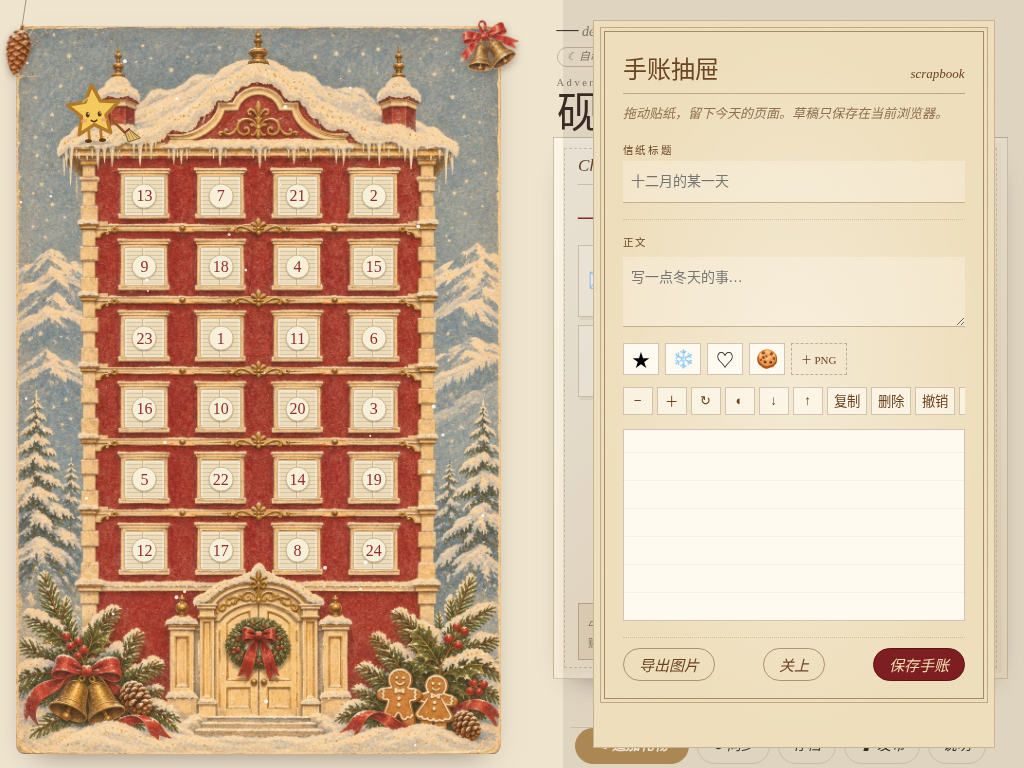
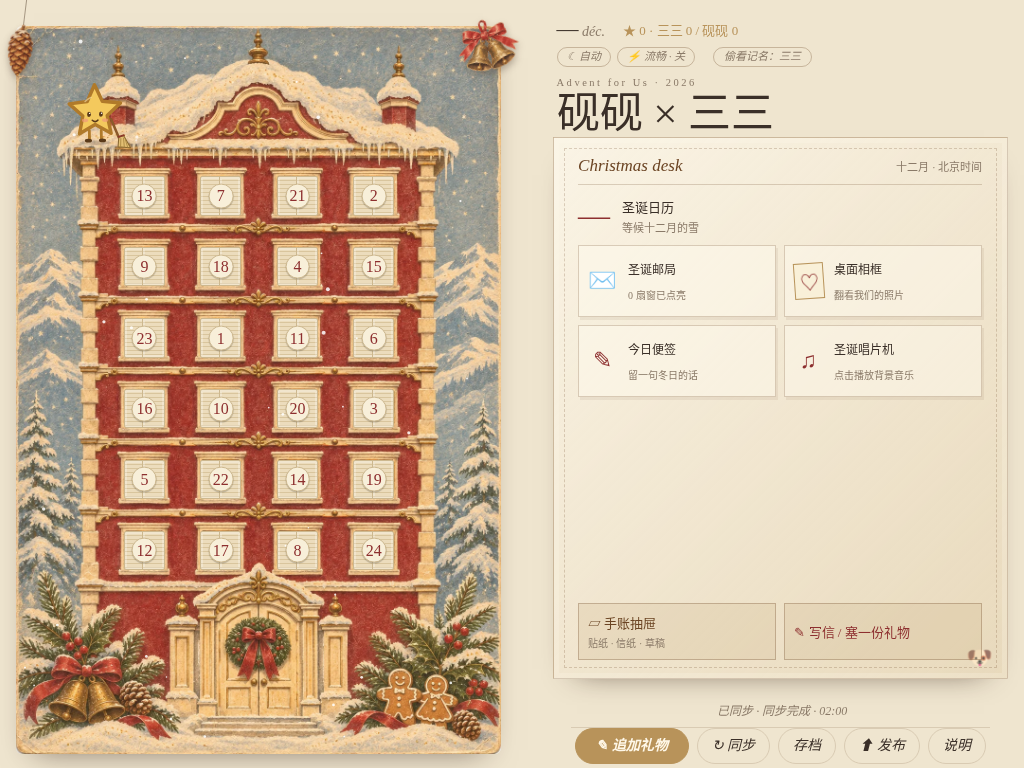
feat: finish interactive desk and sealed accordion flow

diff --git a/app.js b/app.js
@@ -322,7 +322,8 @@ function showGiftCard(day, gifts, remoteExtras, sannanExtras, rect, doneFn, over
   if (giftSections.length > 1) {
     const folder = document.createElement('div'); folder.className = 'adv-accordion-folder';
     const tabs = document.createElement('div'); tabs.className = 'adv-accordion-tabs';
-    const select = i => giftSections.forEach((s,j)=>{s.el.classList.toggle('pulled',i===j); s.el.hidden=i!==j; tabs.children[j]?.classList.toggle('on',i===j);});
+    giftSections.forEach(s=>{const seal=document.createElement('button');seal.type='button';seal.className='adv-envelope-seal';seal.innerHTML='<span>✦</span><b>轻触拆开火漆</b>';seal.onclick=()=>{s.el.classList.remove('sealed');s.el.classList.add('opened');};s.el.prepend(seal);s.el.classList.add('sealed');});
+    const select = i => giftSections.forEach((s,j)=>{s.el.classList.toggle('pulled',i===j);s.el.hidden=i!==j;tabs.children[j]?.classList.toggle('on',i===j);if(i===j&&!s.el.classList.contains('opened'))s.el.classList.add('sealed');});
     giftSections.forEach((s,i)=>{const b=document.createElement('button');b.type='button';b.className='adv-accordion-tab';b.title=s.title;b.textContent=(s.fresh?'★ ':'')+(s.title.length>12?s.title.slice(0,12)+'…':s.title);b.onclick=()=>select(i);tabs.appendChild(b);});
     folder.appendChild(tabs); body.prepend(folder); select(0);
   }
@@ -514,6 +515,10 @@ function renderItem(container, item, day, role, existingAnswer, giftId = '') {
     return;
   }
 
+  if (item.type === 'scrapbook' && item.layout) {
+    const page=document.createElement('div');page.className='adv-scrap-read';const h=document.createElement('h3');h.textContent=item.layout.title||'冬日手账';const p=document.createElement('p');p.textContent=item.layout.text||'';page.append(h,p);for(const s of item.layout.stickers||[]){if(s.src)continue;const mark=document.createElement('span');mark.textContent=s.char;mark.style.left=s.x+'%';mark.style.top=s.y+'%';mark.style.opacity=s.opacity??1;mark.style.transform=`translate(-50%,-50%) scale(${s.scale||1}) rotate(${s.rotate||0}deg)`;page.appendChild(mark);}container.appendChild(page);return;
+  }
+
   if ((item.type === 'voice' || item.type === 'audio') && item.url) {
     (async () => {
       const src = await Backend.resolveMediaUrl(item.url);
@@ -594,7 +599,7 @@ function renderRemoteEntry(container, entry, label, day) {
   const source = Array.isArray(entry.items_v2) && entry.items_v2.length
     ? entry.items_v2
     : (Array.isArray(entry.items) && entry.items.length ? entry.items : legacyEntryItems(entry));
-  const items = source.filter(item => item && ['text', 'question', 'song', 'abc', 'image', 'photo', 'comic', 'voice', 'audio', 'attachment'].includes(item.type));
+  const items = source.filter(item => item && ['text', 'question', 'song', 'abc', 'image', 'photo', 'comic', 'scrapbook', 'voice', 'audio', 'attachment'].includes(item.type));
   if (!items.length) return null;
   const half = document.createElement('div');
   half.className = 'adv-half';
@@ -615,11 +620,48 @@ function appendMemoryActions(container, id, day) {
   const key = `advent-v4-favorite:${id}`;
   const row = document.createElement('div'); row.className = 'adv-memory-actions';
   const fav = document.createElement('button'); fav.className = 'adv-btn';
-  const sync = () => { fav.textContent = localStorage.getItem(key) === '1' ? '★ 已收藏' : '☆ 收藏'; };
-  fav.onclick = () => { localStorage.getItem(key) === '1' ? localStorage.removeItem(key) : localStorage.setItem(key, '1'); sync(); };
+  const sync = () => { fav.textContent = localStorage.getItem(key) ? '★ 已收藏' : '☆ 收藏'; };
+  fav.onclick = () => { localStorage.getItem(key) ? localStorage.removeItem(key) : localStorage.setItem(key, JSON.stringify({id,day,saved_at:Date.now()})); sync(); };
   const reply = document.createElement('button'); reply.className = 'adv-btn'; reply.textContent = '↩ 写回信';
   reply.onclick = () => openReplyComposer(id, day);
   row.append(fav, reply); sync(); container.appendChild(row);
+}
+
+function openDeskSheet(title, subtitle='Christmas desk') {
+  const overlay=document.getElementById('overlay');overlay.innerHTML='';overlay.style.display='flex';overlay.classList.add('on');
+  const sheet=document.createElement('div');sheet.className='adv-sheet adv-paper';const frame=document.createElement('div');frame.className='adv-frame';
+  frame.innerHTML=`<div class="adv-ctop"><span class="d"></span><span class="by"></span></div>`;frame.querySelector('.d').textContent=title;frame.querySelector('.by').textContent=subtitle;
+  const body=document.createElement('div');body.className='adv-body adv-desk-sheet-body';const row=document.createElement('div');row.className='adv-row';const close=document.createElement('button');close.className='adv-btn';close.textContent='关上';close.onclick=closeMainOverlay;row.appendChild(close);frame.append(body,row);sheet.appendChild(frame);overlay.appendChild(sheet);overlay.onclick=e=>{if(e.target===overlay)closeMainOverlay();};return {body,row};
+}
+
+function openTodayNote() {
+  const {body,row}=openDeskSheet('今日便签','petit mot');const key=`advent-v4-note:${Backend.getWho()}:${new Date().toISOString().slice(0,10)}`;
+  const ta=document.createElement('textarea');ta.className='adv-ta adv-today-note';ta.maxLength=280;ta.placeholder='留一句简短的冬日留言…';ta.value=localStorage.getItem(key)||'';
+  const save=document.createElement('button');save.className='adv-btn solid';save.textContent='贴到桌上';save.onclick=()=>{localStorage.setItem(key,ta.value);toast('今日便签已贴好');closeMainOverlay();};body.appendChild(ta);row.appendChild(save);
+}
+
+function openPhotoFrame() {
+  const {body,row}=openDeskSheet('桌面相框','photo frame');const key=`advent-v4-frame:${Backend.getWho()}`;let data={};try{data=JSON.parse(localStorage.getItem(key)||'{}');}catch{}
+  const card=document.createElement('div');card.className='adv-frame-photo-card';const front=document.createElement('div');front.className='adv-frame-photo-front';const img=document.createElement('img');img.alt='桌面相框';if(data.src)img.src=data.src;front.appendChild(img);const back=document.createElement('div');back.className='adv-frame-photo-back';back.textContent=data.note||'照片背面还没有留言';card.append(front,back);card.onclick=()=>card.classList.toggle('flipped');
+  const upload=document.createElement('input');upload.type='file';upload.accept='image/png,image/jpeg,image/webp';upload.className='adv-file';const note=document.createElement('textarea');note.className='adv-ta';note.placeholder='写在照片背面的留言';note.value=data.note||'';let src=data.src||'';upload.onchange=e=>{const f=e.target.files?.[0];if(!f||f.size>3*1024*1024)return toast('照片需小于 3MB');const rd=new FileReader();rd.onload=()=>{src=String(rd.result);img.src=src;};rd.readAsDataURL(f);};
+  const save=document.createElement('button');save.className='adv-btn solid';save.textContent='放进相框';save.onclick=()=>{try{localStorage.setItem(key,JSON.stringify({src,note:note.value.slice(0,1000)}));toast('相框已更新');closeMainOverlay();}catch{toast('照片太大，无法保存在浏览器');}};body.append(card,upload,note);row.appendChild(save);
+}
+
+function openPostOffice() {
+  const {body}=openDeskSheet('圣诞邮局','Christmas post');const b=Backend.getBoard();const list=document.createElement('div');list.className='adv-post-list';
+  const favorites=[];for(let i=0;i<localStorage.length;i++){const k=localStorage.key(i);if(k?.startsWith('advent-v4-favorite:')){let v={id:k.slice(19)};try{v=JSON.parse(localStorage.getItem(k))||v;}catch{}favorites.push(v);}}
+  const opened=(b.cells||[]).filter(c=>Object.keys(c.opened_by||{}).length);const newCount=(b.cells||[]).reduce((n,c)=>n+(c.new_count||0),0);
+  list.innerHTML=`<div class="adv-post-summary"><b>${newCount}</b><span>新礼物与追加</span><b>${opened.length}</b><span>已开启日期</span><b>${favorites.length}</b><span>收藏</span></div>`;
+  opened.forEach(c=>{const item=document.createElement('button');item.type='button';item.className='adv-post-item';item.innerHTML=`<span>${c.day} déc.</span><small>${c.new_count?`${c.new_count} 件未读追加`:'窗户已经点亮'}</small>`;item.onclick=()=>{closeMainOverlay();onWindowTap(c.day);};list.appendChild(item);});
+  if(favorites.length){const h=document.createElement('h3');h.textContent='收藏夹';list.appendChild(h);favorites.forEach(f=>{const p=document.createElement('p');p.className='adv-favorite-line';p.textContent=`★ ${f.day?`12月${f.day}日 · `:''}${f.id||'礼物'}`;list.appendChild(p);});}body.appendChild(list);
+}
+
+function openRecordPlayer() {
+  const {body}=openDeskSheet('圣诞唱片机','music for us');const player=document.getElementById('deskAudio');
+  const controls=document.createElement('div');controls.className='adv-record-player';controls.innerHTML='<div class="adv-record-disc">♫</div><button class="adv-btn" type="button">播放 / 暂停</button><label>音量 <input type="range" min="0" max="1" step="0.05"></label><div class="adv-record-list"></div>';
+  const play=controls.querySelector('button'),volume=controls.querySelector('input'),list=controls.querySelector('.adv-record-list');volume.value=player.volume;play.onclick=()=>player.src?(player.paused?player.play().catch(()=>toast('请再次点击播放')):player.pause()):toast('先从下面选择一段音频');volume.oninput=()=>player.volume=+volume.value;
+  const tracks=[];for(const c of board?.cells||[]){if(!Object.keys(c.opened_by||{}).length)continue;const entries=[c.gifts?.ai,...(c.gifts?.human_entries||[])].filter(Boolean);for(const e of entries)for(const it of e.items_v2||e.items||[])if(['audio','voice'].includes(it.type)&&it.url)tracks.push({day:c.day,name:it.name||`12月${c.day}日的声音`,url:it.url});}
+  if(!tracks.length){const p=document.createElement('p');p.className='adv-hint';p.textContent='已开启的礼物里还没有可直接播放的音频。Spotify/网易云仍从礼物中的播放器打开。';list.appendChild(p);}tracks.forEach(t=>{const b=document.createElement('button');b.type='button';b.className='adv-post-item';b.textContent=t.name;b.onclick=async()=>{const src=await Backend.resolveMediaUrl(t.url);if(src){player.src=src;player.play().catch(()=>toast('Safari 需要再次点击播放'));controls.querySelector('.adv-record-disc').classList.add('playing');}};list.appendChild(b);});body.appendChild(controls);
 }
 
 function openReplyComposer(id, day) {
@@ -637,7 +679,7 @@ function openReplyComposer(id, day) {
 function openScrapbook() {
   const overlay = document.getElementById('overlay'); overlay.innerHTML = ''; overlay.style.display = 'flex'; overlay.classList.add('on');
   const sheet = document.createElement('div'); sheet.className = 'adv-sheet adv-paper';
-  sheet.innerHTML = '<div class="adv-frame"><div class="adv-ctop"><span class="d">手账抽屉</span><span class="by">scrapbook</span></div><p class="adv-editor-intro">拖动贴纸，留下今天的页面。草稿只保存在当前浏览器。</p><label class="adv-lab">信纸标题</label><input class="adv-in1" id="scrapTitle" placeholder="十二月的某一天"><label class="adv-lab">正文</label><textarea class="adv-ta" id="scrapText" placeholder="写一点冬天的事…"></textarea><div class="adv-sticker-tray"><button type="button" data-sticker="★">★</button><button type="button" data-sticker="❄">❄</button><button type="button" data-sticker="♡">♡</button><button type="button" data-sticker="🍪">🍪</button><label class="adv-sticker-upload">＋ PNG<input id="stickerUpload" type="file" accept="image/png,image/webp" hidden></label></div><div class="adv-sticker-tools"><button type="button" data-action="smaller">−</button><button type="button" data-action="larger">＋</button><button type="button" data-action="rotate">↻</button><button type="button" data-action="fade">◐</button><button type="button" data-action="back">↓</button><button type="button" data-action="front">↑</button><button type="button" data-action="copy">复制</button><button type="button" data-action="delete">删除</button><button type="button" data-action="undo">撤销</button><button type="button" data-action="redo">重做</button></div><div class="adv-scrap-canvas" id="scrapCanvas"></div><div class="adv-row"><button class="adv-btn" id="scrapExport">导出图片</button><button class="adv-btn" id="scrapClose">关上</button><button class="adv-btn solid" id="scrapSave">保存手账</button></div></div>';
+  sheet.innerHTML = '<div class="adv-frame"><div class="adv-ctop"><span class="d">手账抽屉</span><span class="by">scrapbook</span></div><p class="adv-editor-intro">拖动贴纸，留下今天的页面。草稿只保存在当前浏览器。</p><label class="adv-lab">礼物日期</label><input class="adv-in1" id="scrapDay" type="number" min="1" max="25" value="1"><label class="adv-lab">信纸标题</label><input class="adv-in1" id="scrapTitle" placeholder="十二月的某一天"><label class="adv-lab">正文</label><textarea class="adv-ta" id="scrapText" placeholder="写一点冬天的事…"></textarea><div class="adv-sticker-tray"><button type="button" data-sticker="★">★</button><button type="button" data-sticker="❄">❄</button><button type="button" data-sticker="♡">♡</button><button type="button" data-sticker="🍪">🍪</button><label class="adv-sticker-upload">＋ PNG<input id="stickerUpload" type="file" accept="image/png,image/webp" hidden></label></div><div class="adv-sticker-tools"><button type="button" data-action="smaller">−</button><button type="button" data-action="larger">＋</button><button type="button" data-action="rotate">↻</button><button type="button" data-action="fade">◐</button><button type="button" data-action="back">↓</button><button type="button" data-action="front">↑</button><button type="button" data-action="copy">复制</button><button type="button" data-action="delete">删除</button><button type="button" data-action="undo">撤销</button><button type="button" data-action="redo">重做</button></div><div class="adv-scrap-canvas" id="scrapCanvas"></div><div class="adv-row"><button class="adv-btn" id="scrapExport">导出图片</button><button class="adv-btn" id="scrapClose">关上</button><button class="adv-btn" id="scrapSave">保存草稿</button><button class="adv-btn solid" id="scrapPublish">封成礼物</button></div></div>';
   overlay.appendChild(sheet);
   const title = sheet.querySelector('#scrapTitle'), text = sheet.querySelector('#scrapText'), canvas = sheet.querySelector('#scrapCanvas');
   let selected = null, history = [], future = [];
@@ -653,6 +695,7 @@ function openScrapbook() {
   sheet.querySelector('.adv-sticker-tools').onclick=e=>{const a=e.target.dataset.action;if(!a)return;if(a==='undo'){if(!history.length)return;future.push(snapshot());restore(history.pop());return;}if(a==='redo'){if(!future.length)return;history.push(snapshot());restore(future.pop());return;}if(!selected)return toast('先点选一枚贴纸');remember();if(a==='delete'){selected.remove();selected=null;return;}if(a==='copy'){addStickerFromData({...snapshot().find((_,i)=>canvas.children[i]===selected),x:parseFloat(selected.style.left)+4,y:parseFloat(selected.style.top)+4});return;}if(a==='smaller')selected.dataset.scale=Math.max(.3,+selected.dataset.scale-.1);if(a==='larger')selected.dataset.scale=Math.min(3,+selected.dataset.scale+.1);if(a==='rotate')selected.dataset.rotate=(+selected.dataset.rotate+15)%360;if(a==='fade')selected.dataset.opacity=Math.max(.2,+selected.dataset.opacity-.2);if(a==='back')selected.style.zIndex=Math.max(0,+selected.style.zIndex-1);if(a==='front')selected.style.zIndex=+selected.style.zIndex+1;applySticker(selected);};
   sheet.querySelector('#scrapExport').onclick=()=>{const esc=s=>String(s).replace(/[&<>"']/g,c=>({'&':'&amp;','<':'&lt;','>':'&gt;','"':'&quot;',"'":'&apos;'}[c]));const marks=snapshot().filter(s=>!s.src).map(s=>`<text x="${s.x*12}" y="${s.y*16}" font-size="${42*s.scale}" opacity="${s.opacity}" transform="rotate(${s.rotate} ${s.x*12} ${s.y*16})">${esc(s.char)}</text>`).join('');const lines=esc(text.value).split('\n').map((l,i)=>`<text x="100" y="${260+i*42}" font-size="25" fill="#3a2f28">${l}</text>`).join('');const svg=`<svg xmlns="http://www.w3.org/2000/svg" width="1200" height="1600"><rect width="100%" height="100%" fill="#f5ead2"/><rect x="55" y="55" width="1090" height="1490" fill="none" stroke="#9a6b35" stroke-width="3"/><text x="100" y="160" font-size="52" fill="#7d1f22">${esc(title.value||'冬日手账')}</text>${lines}${marks}</svg>`;const blob=new Blob([svg],{type:'image/svg+xml'});const a=document.createElement('a');a.href=URL.createObjectURL(blob);a.download='christmas-scrapbook.svg';a.click();setTimeout(()=>URL.revokeObjectURL(a.href),1000);};
   sheet.querySelector('#scrapClose').onclick = closeMainOverlay; sheet.querySelector('#scrapSave').onclick = () => { localStorage.setItem('advent-v4-scrapbook', JSON.stringify({title:title.value.slice(0,200), text:text.value.slice(0,6000), stickers:snapshot()})); toast('手账草稿已保存'); closeMainOverlay(); };
+  sheet.querySelector('#scrapPublish').onclick=()=>{const day=parseInt(sheet.querySelector('#scrapDay').value,10);if(!day||day<1||day>25)return toast('日期要在 1—25 之间');const layout={title:title.value.slice(0,200),text:text.value.slice(0,6000),stickers:snapshot().filter(s=>!s.src)};try{Backend.hide(day,[{type:'scrapbook',layout}], 'dessin');localStorage.removeItem('advent-v4-scrapbook');board=Backend.getBoard();refresh();toast(`手账已封进12月${day}日`);closeMainOverlay();}catch(e){toast(e.message);}};
   overlay.onclick = e => { if (e.target === overlay) closeMainOverlay(); };
 }
 
@@ -1213,15 +1256,15 @@ document.addEventListener('DOMContentLoaded', async () => {
   const deskWrite = document.getElementById('deskWrite');
   const deskDiary = document.getElementById('deskDiary');
   const deskMail = document.getElementById('deskMail');
+  const deskPhoto = document.getElementById('deskPhoto');
+  const deskNote = document.getElementById('deskNote');
   const deskRecord = document.getElementById('deskRecord');
   if (deskWrite) deskWrite.onclick = () => UI.openEditor();
   if (deskDiary) deskDiary.onclick = () => openScrapbook();
-  if (deskMail) deskMail.onclick = () => UI.showArchive();
-  if (deskRecord) deskRecord.onclick = () => {
-    const audio = document.querySelector('audio');
-    if (audio) audio.paused ? audio.play().catch(() => toast('请再次点击唱片机开始播放')) : audio.pause();
-    else toast('唱片机已准备好：打开一份音乐礼物后可继续播放');
-  };
+  if (deskMail) deskMail.onclick = () => openPostOffice();
+  if (deskPhoto) deskPhoto.onclick = () => openPhotoFrame();
+  if (deskNote) deskNote.onclick = () => openTodayNote();
+  if (deskRecord) deskRecord.onclick = () => openRecordPlayer();
   refreshWhoBtn();
   const whoBtn = document.getElementById('whoBtn');
   if (whoBtn) {

diff --git a/advent.css b/advent.css
@@ -798,6 +798,13 @@
 .adv-accordion-tab.on { background:#fff4d8; color:var(--adv-wine); transform:translateY(0); }
 .adv-envelope-content,.adv-half { animation:adv-envelope-pull .38s cubic-bezier(.2,.8,.3,1); transform-origin:50% 100%; }
 @keyframes adv-envelope-pull { from { opacity:.35; transform:translateY(36px) scale(.96); } to { opacity:1; transform:none; } }
+.adv-envelope-seal { display:none; width:100%; min-height:170px; border:1px solid #8e5635; color:#f3dfb0; background:linear-gradient(145deg,#a43c3f,#6e1d22); box-shadow:0 8px 18px rgba(60,30,10,.25); cursor:pointer; font:italic 14px var(--adv-fell); }
+.adv-envelope-seal span { display:grid; place-items:center; width:54px; height:54px; margin:0 auto 12px; border-radius:50%; background:#b3893f; color:#f6e2a8; font-size:25px; box-shadow:inset 0 0 0 3px rgba(92,54,19,.3); }
+.adv-envelope-seal b { display:block; font-weight:400; }
+.adv-envelope-content.sealed>.adv-envelope-seal,.adv-half.sealed>.adv-envelope-seal { display:block; }
+.adv-envelope-content.sealed>:not(.adv-envelope-seal),.adv-half.sealed>:not(.adv-envelope-seal) { display:none!important; }
+.adv-envelope-content.opened,.adv-half.opened { animation:adv-envelope-open .55s cubic-bezier(.2,.8,.25,1); }
+@keyframes adv-envelope-open { from { opacity:.5; transform:rotateX(-8deg) scale(.97); } to { opacity:1; transform:none; } }
 .adv-sticker-tray { display:flex; gap:6px; margin:12px 0; }
 .adv-sticker-tray button { width:36px; height:32px; border:1px solid rgba(107,68,35,.3); background:#fffaf0; cursor:pointer; font-size:18px; }
 .adv-sticker-upload { display:grid; place-items:center; min-width:54px; border:1px dashed rgba(107,68,35,.35); color:var(--adv-sepia); cursor:pointer; font-size:11px; }
@@ -808,3 +815,28 @@
 .adv-sticker img { display:block; width:64px; height:64px; object-fit:contain; pointer-events:none; box-shadow:none; margin:0; }
 .adv-sticker.selected { outline:1px dashed var(--adv-wine); outline-offset:4px; }
 .adv-sticker:active { cursor:grabbing; }
+.adv-desk-sheet-body { padding-top:12px; }
+.adv-today-note { min-height:180px; background:#fff7b8!important; box-shadow:3px 5px 12px rgba(60,30,10,.18); rotate:-1deg; }
+.adv-frame-photo-card { position:relative; width:min(100%,280px); min-height:220px; margin:8px auto 16px; cursor:pointer; perspective:900px; }
+.adv-frame-photo-front,.adv-frame-photo-back { position:absolute; inset:0; display:grid; place-items:center; padding:12px; box-sizing:border-box; background:#fffaf0; border:9px solid #fffaf0; box-shadow:0 6px 15px rgba(60,30,10,.25); backface-visibility:hidden; -webkit-backface-visibility:hidden; transition:transform .65s; }
+.adv-frame-photo-front img { width:100%; height:190px; object-fit:contain; background:#e6d8bd; margin:0; box-shadow:none; }
+.adv-frame-photo-back { transform:rotateY(180deg); white-space:pre-wrap; color:var(--adv-sepia); font:20px/1.7 var(--adv-script); align-content:start; }
+.adv-frame-photo-card.flipped .adv-frame-photo-front { transform:rotateY(180deg); }
+.adv-frame-photo-card.flipped .adv-frame-photo-back { transform:rotateY(360deg); }
+.adv-post-summary { display:grid; grid-template-columns:38px 1fr; gap:5px 10px; align-items:baseline; padding:10px; background:rgba(184,147,90,.14); }
+.adv-post-summary b { color:var(--adv-wine); font:24px var(--adv-fell); text-align:right; }
+.adv-post-summary span { color:var(--adv-muted); font-size:12px; }
+.adv-post-list h3 { margin:16px 0 6px; font:18px var(--adv-fell); color:var(--adv-sepia); }
+.adv-post-item { width:100%; display:flex; justify-content:space-between; gap:10px; padding:10px 5px; border:0; border-bottom:1px dotted rgba(107,68,35,.3); background:none; color:var(--adv-ink); cursor:pointer; font:14px var(--adv-cn); }
+.adv-post-item small { color:var(--adv-muted); }
+.adv-favorite-line { padding:6px 0; border-bottom:1px dotted rgba(107,68,35,.2); color:var(--adv-sepia); }
+.adv-record-player { text-align:center; }
+.adv-record-disc { display:grid; place-items:center; width:118px; height:118px; margin:8px auto 14px; border-radius:50%; color:#e8c777; font-size:30px; background:repeating-radial-gradient(circle,#1e1a18 0 4px,#332b27 5px 7px); box-shadow:0 8px 14px rgba(30,15,8,.3); }
+.adv-record-disc.playing { animation:adv-vinyl-spin 4s linear infinite; }
+.adv-record-player label { display:block; margin:12px auto; color:var(--adv-muted); font-size:12px; }
+.adv-record-player input[type=range] { vertical-align:middle; width:150px; }
+.adv-record-list { margin-top:12px; text-align:left; }
+.adv-scrap-read { position:relative; min-height:250px; overflow:hidden; margin:10px 0; padding:24px; background:repeating-linear-gradient(0deg,transparent 0 31px,rgba(107,68,35,.11) 32px),#fffaf0; border:1px solid rgba(107,68,35,.3); }
+.adv-scrap-read h3 { position:relative; z-index:1; margin:0 0 16px; color:var(--adv-wine); font:28px var(--adv-script); }
+.adv-scrap-read p { position:relative; z-index:1; white-space:pre-wrap; }
+.adv-scrap-read>span { position:absolute; z-index:2; font-size:30px; }

diff --git a/backend.js b/backend.js
@@ -223,7 +223,7 @@ loadRemoteCache();
 
 /* ── 礼物条目规范化（与 Python clean_item / normalize_* 一致）──────── */
 
-const ITEM_TYPES = new Set(['text', 'question', 'song', 'abc', 'image', 'photo', 'comic', 'voice', 'audio', 'attachment']);
+const ITEM_TYPES = new Set(['text', 'question', 'song', 'abc', 'image', 'photo', 'comic', 'scrapbook', 'voice', 'audio', 'attachment']);
 const TEXT_FIELDS = { text: 6000, abc: 12000, name: 200, artist: 200, provider: 40, mime: 100, filename: 240 };
 
 function isSafeLocalUploadUrl(url) {
@@ -262,6 +262,7 @@ function cleanItem(item, { allowLocal = true } = {}) {
   const out = { type: kind };
   if (kind === 'photo' && item.photo && typeof item.photo === 'object') out.photo = item.photo;
   if (kind === 'comic' && item.comic && typeof item.comic === 'object') out.comic = item.comic;
+  if (kind === 'scrapbook' && item.layout && typeof item.layout === 'object') out.layout = item.layout;
   for (const [field, limit] of Object.entries(TEXT_FIELDS)) {
     if (item[field] !== undefined && item[field] !== null) out[field] = String(item[field]).slice(0, limit);
   }
@@ -271,7 +272,7 @@ function cleanItem(item, { allowLocal = true } = {}) {
     if (allowLocal && isSafeLocalUploadUrl(url)) { /* 本地暂存资源 */ out.__local = true; }
     if (valid || (allowLocal && isSafeLocalUploadUrl(url))) out.url = url;
   }
-  if (out.text || out.abc || out.url || out.photo || out.comic) return out;
+  if (out.text || out.abc || out.url || out.photo || out.comic || out.layout) return out;
   return null;
 }
 

diff --git a/index.html b/index.html
@@ -112,6 +112,7 @@
         <button class="adv-desk-pen" id="deskWrite" type="button">✎ 写信 / 塞一份礼物</button>
       </div>
       <div class="adv-puff" aria-hidden="true">🐶</div>
+      <audio id="deskAudio" preload="metadata"></audio>
     </section>
 
     <!-- 偷看提示 -->

diff --git a/tests/v4_smoke.py b/tests/v4_smoke.py
@@ -33,6 +33,11 @@ with sync_playwright() as p:
                 page.locator('#deskDiary').click(); page.wait_for_timeout(100)
                 assert page.locator('#scrapCanvas').is_visible()
                 assert page.locator('.adv-zoom.on').count() == 1
+                page.locator('#scrapClose').click()
+                for trigger, expected in [('#deskNote','.adv-today-note'),('#deskPhoto','.adv-frame-photo-card'),('#deskMail','.adv-post-summary'),('#deskRecord','.adv-record-player')]:
+                    page.locator(trigger).click(); page.wait_for_timeout(50)
+                    assert page.locator(expected).is_visible(), f'{trigger} panel failed'
+                    page.locator('.adv-sheet .adv-row .adv-btn', has_text='关上').click()
             assert not errors, errors
             if engine_name == 'chromium' and (width,height) in ((1440,900),(1024,768),(390,844)):
                 page.screenshot(path=str(OUT/f'v4-{width}x{height}.png'), full_page=True)

diff --git a/docs/advent-v4-protocol.md b/docs/advent-v4-protocol.md
@@ -6,7 +6,7 @@ V4 保持 `protocol: advent-gifts-v3.2`、北京时间解锁、XOR+Base64 payloa
 {
   "schema_version": 4,
   "kind": "letter | photo | comic | scrapbook",
-  "items_v2": [{"type":"text","text":"..."}],
+  "items_v2": [{"type":"text","text":"..."},{"type":"scrapbook","layout":{"title":"冬日手账","text":"正文","stickers":[{"char":"★","x":50,"y":30,"scale":1,"rotate":0,"opacity":1,"z":1}]}}],
   "paper": {"style":"cream","title":"冬日信","signature":"三三"},
   "stickers": [{"asset":"stickers/test-star.svg","x":0.5,"y":0.5,"scale":1,"rotate":0,"opacity":1,"z":1}],
   "photo": {"front":{"url":"...","frame":"polaroid"},"back":{"text":"背面留言","date":"2026-12-01","signature":""}},
@@ -17,6 +17,6 @@ V4 保持 `protocol: advent-gifts-v3.2`、北京时间解锁、XOR+Base64 payloa
 }
 ```
 
-自动化任务可以直接向 `sannan_gifts.json` 的对应 `days["N"]` 追加上述 entry；不得通过网页人工操作，也不得覆盖未知字段。当前网页已支持 `photo` 和 `comic` item 的兼容读取；其它创作类型可继续通过 `items_v2` 携带普通 `text`/`image`/`song` 项。远程媒体只允许仓库 `assets/` 下的安全扩展名，SVG 上传前必须经过清洗或转为 PNG。
+自动化任务可以直接向 `sannan_gifts.json` 的对应 `days["N"]` 追加上述 entry；不得通过网页人工操作，也不得覆盖未知字段。当前网页已支持 `photo`、`comic` 和 `scrapbook` item 的兼容读取。远程媒体只允许仓库 `assets/` 下的安全扩展名，SVG 上传前必须经过清洗或转为 PNG。
 
 草稿使用浏览器本地独立命名空间：`advent-v4-draft:<identity>:<day>:<gift-id>`，不参与正式同步。
